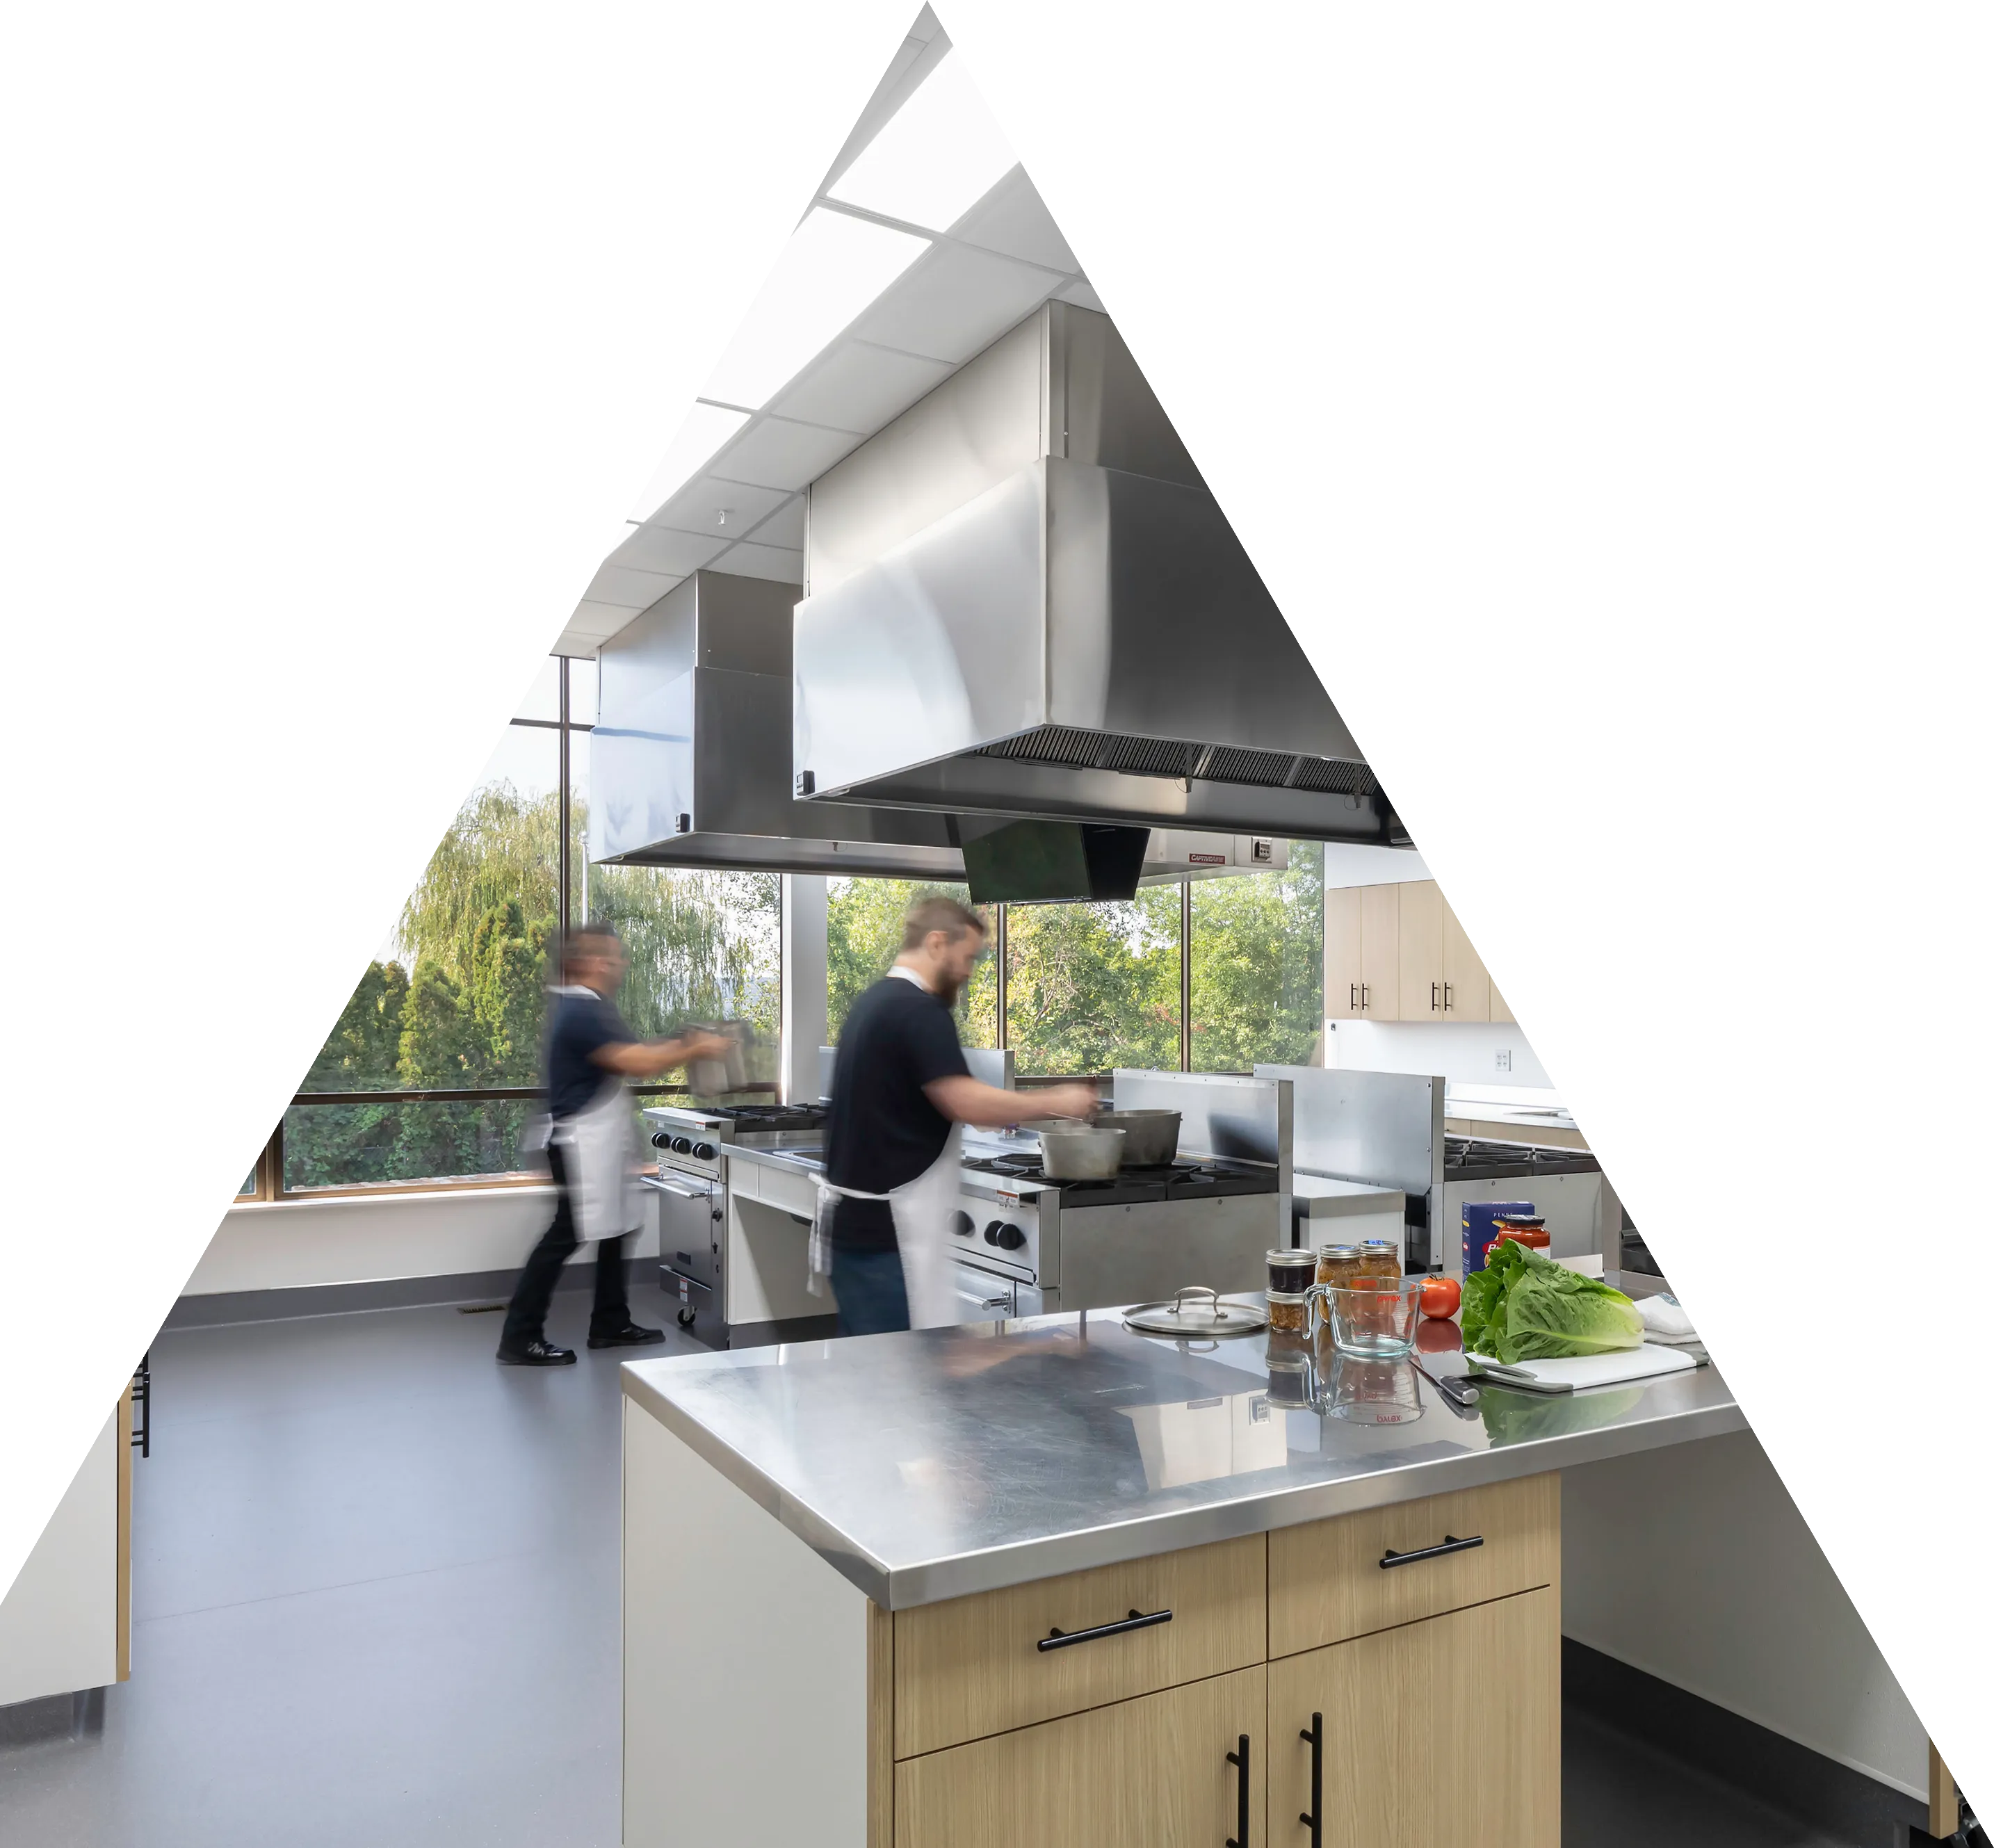
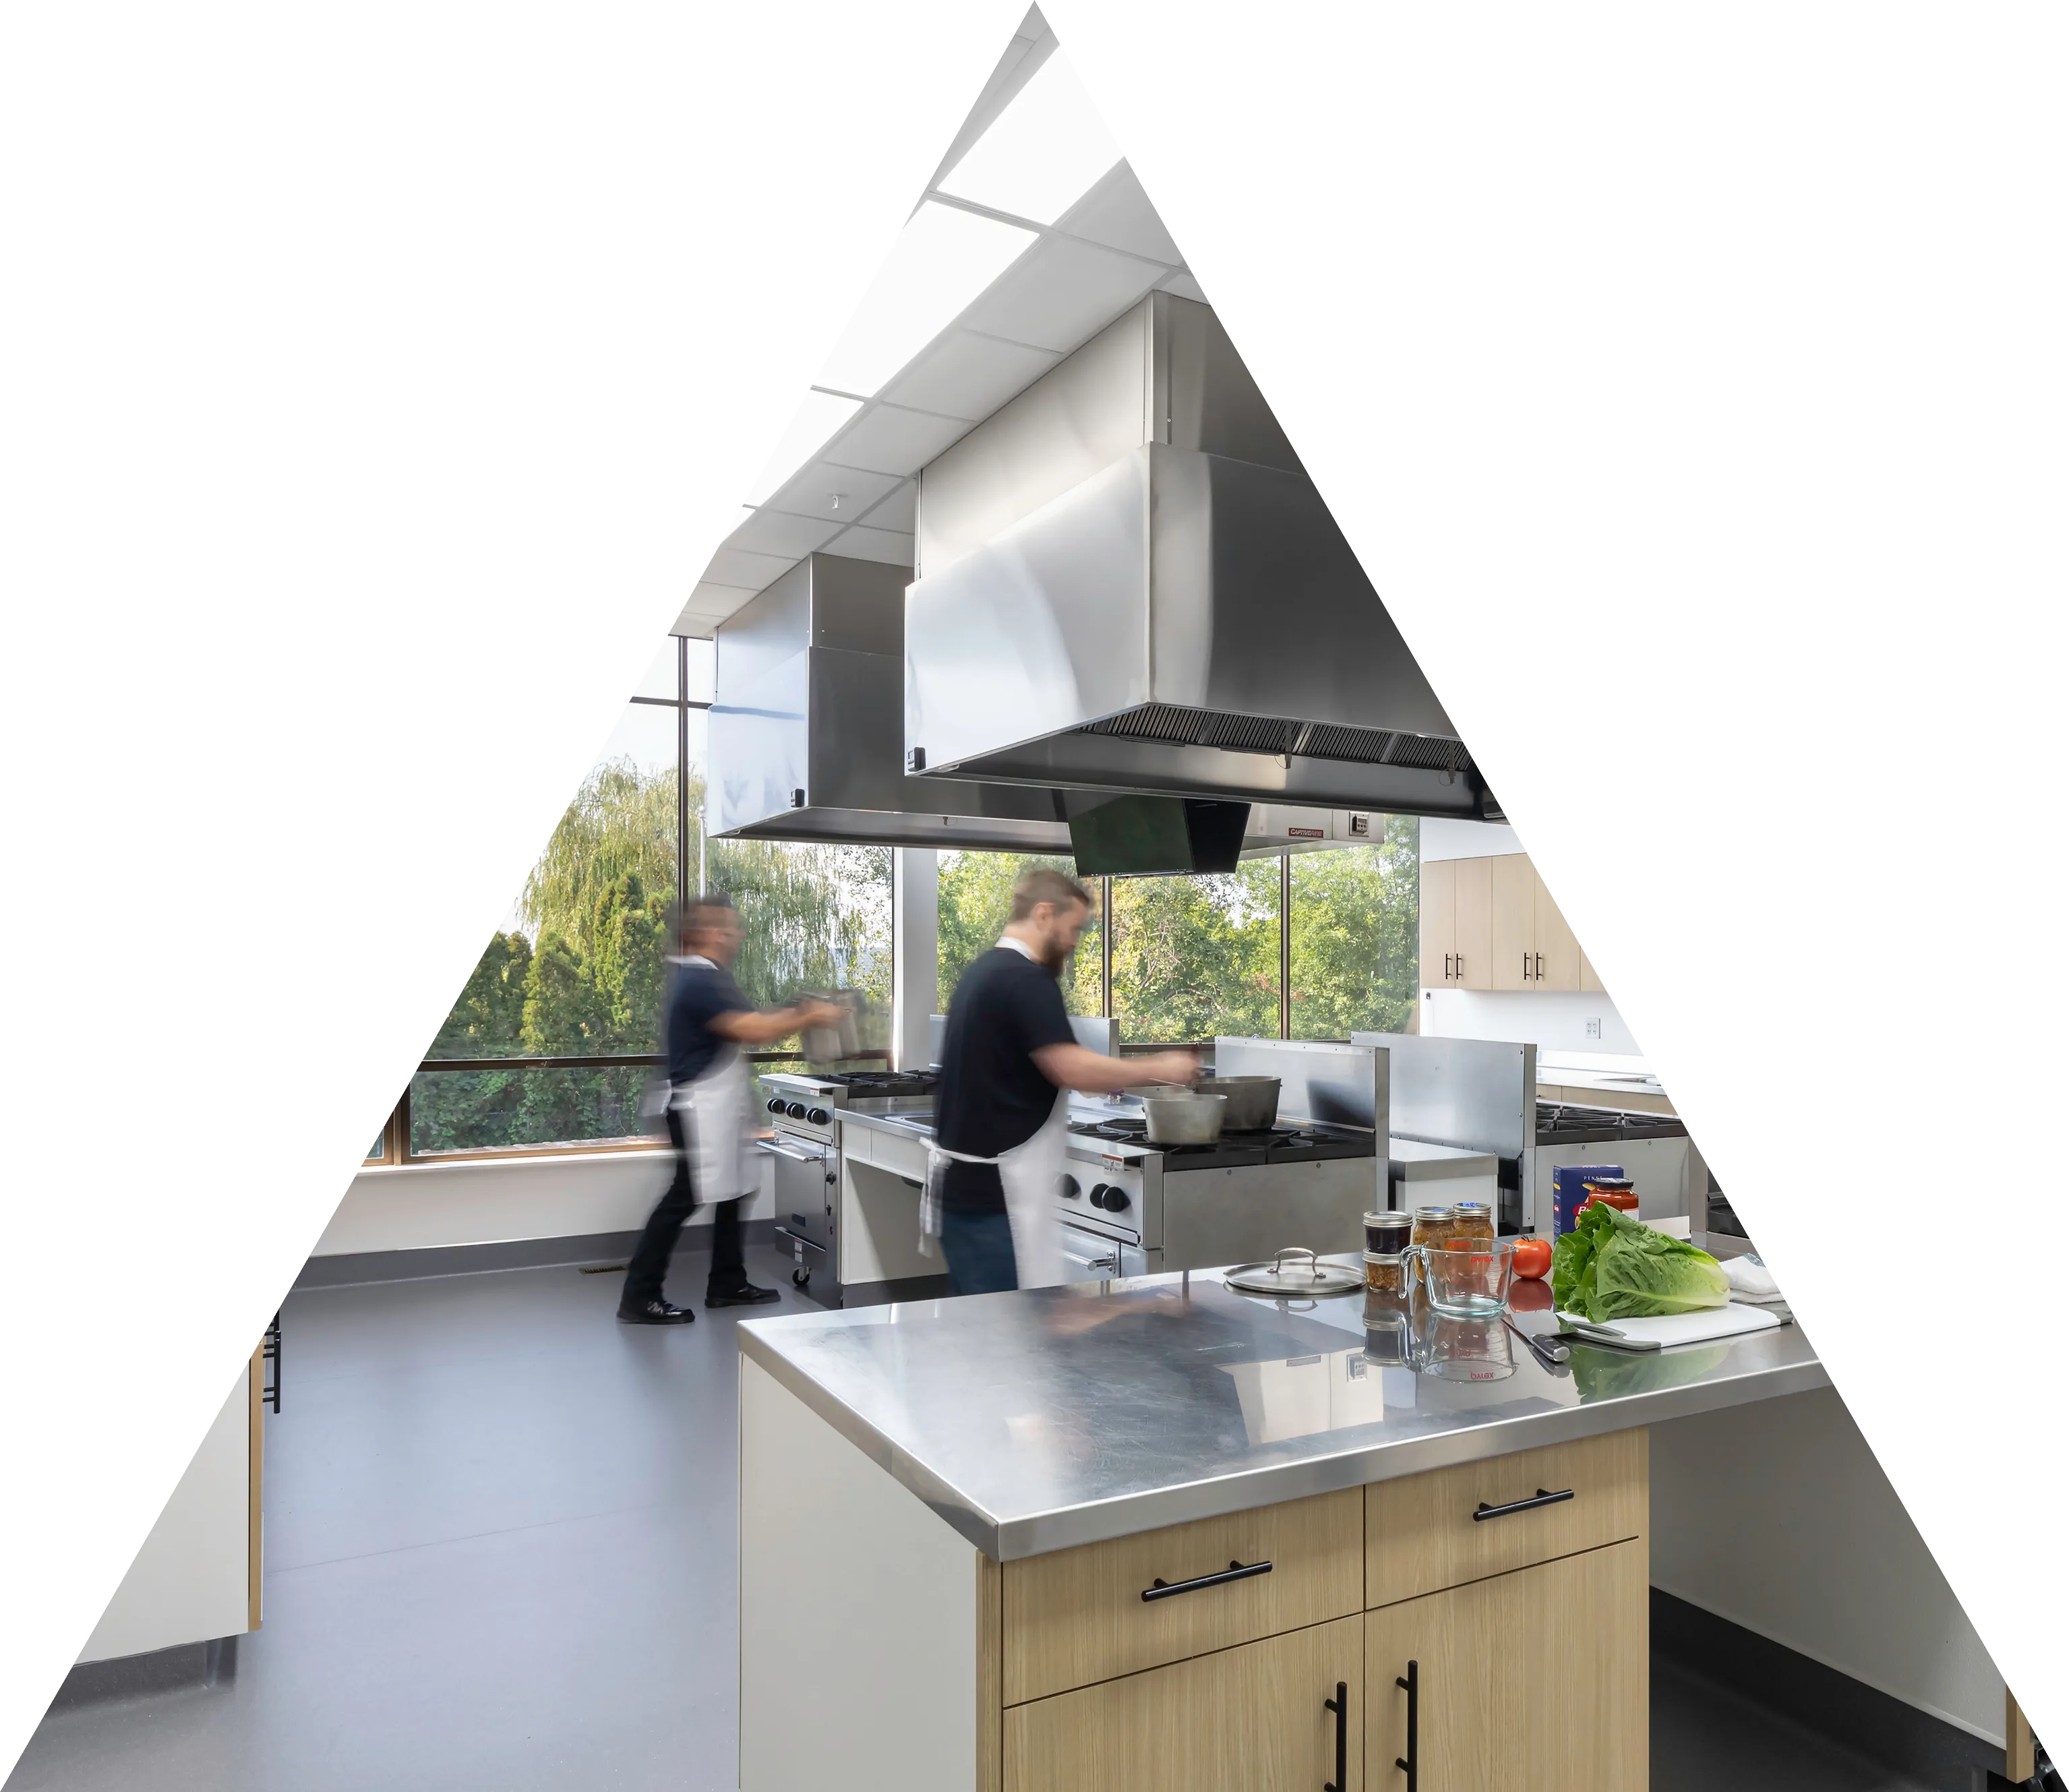
i think i fixed the centering triangles issue on home page

diff --git a/css/style.css b/css/style.css
@@ -1,9 +1,8 @@
 * {
   /* border: red 1px solid;
-  box-sizing: border-box;*/ 
+  box-sizing: border-box;*/
   margin: 0;
   padding: 0;
-  
 }
 
 /* COLORS */
@@ -32,7 +31,7 @@
 
   /* Spacing and Radii */
   --card-radius: 15px;
-    /* x-offset | y-offset | blur | color */
+  /* x-offset | y-offset | blur | color */
   --shadow: 0 10px 20px rgba(42, 42, 81, 0.2);
 }
 
@@ -145,7 +144,7 @@ body {
   padding: 0;
 }
 
-.logo{
+.logo {
   max-width: 200px;
 }
 
@@ -163,12 +162,61 @@ body {
   overflow: hidden;
 }
 
-.triangle {
+/* Container to hold both triangles and create the gap */
+.triangle-container {
   position: absolute;
   top: 50%;
-  transform: translateY(-50%); 
-  width: 90%; 
-  min-height: 90%; 
+  left: 50%;
+  transform: translate(-50%, -50%); /* Perfectly center the unit */
+  display: flex;
+  justify-content: center;
+  align-items: center;
+  /* width: 100%;
+  height: 100%; */
+width: 100vw; 
+  height: 100vh;
+overflow: visible;
+
+  z-index: -1;
+  pointer-events: none;
+}
+
+.triangle {
+
+  position: relative; 
+  top: auto;
+  left: auto;
+  right: auto;
+  transform: none;
+  flex-shrink: 0;
+  /* width: 65%;
+  height: 90%; */
+
+  width: 900px; 
+  height: 900px;
+
+  background-size: contain;
+  background-repeat: no-repeat;
+}
+
+.triangleLeft {
+  background-image: url("../img/BgTri_Left.webp");
+  background-position: right center;
+  scroll-margin-right: -100px;
+}
+
+.triangleRight {
+  background-image: url("../img/BgTri_Right.webp");
+  background-position: left center;
+  margin-left: -100px;
+}
+
+/* .triangle {
+  position: absolute;
+  top: 50%;
+  transform: translateY(-50%);
+  width: 90%;
+  min-height: 90%;
   z-index: -1;
   pointer-events: none;
   background-size: contain;
@@ -185,9 +233,8 @@ body {
 .triangleRight {
   background-image: url("../img/BgTri_Right.webp");
   background-position: right center;
-  /* right: -280px; */
   right: -20%;
-}
+} */
 
 /* BG ORANGE TRIANGLE FOR OTHER PAGES */
 
@@ -237,7 +284,11 @@ body {
 /* SIDEBAR */
 
 #sidebar {
-  background: linear-gradient(to right, var(--color-teal), var(--color-light-teal));
+  background: linear-gradient(
+    to right,
+    var(--color-teal),
+    var(--color-light-teal)
+  );
   border-left: 10px solid var(--color-dark-orange);
   position: fixed;
   top: 0;
@@ -478,7 +529,7 @@ main.content-area {
   text-align: center;
   padding: 50px;
   margin: 50px;
-  box-shadow:  var(--shadow);
+  box-shadow: var(--shadow);
 }
 
 .shortYellowTriRight-card::before {
@@ -514,8 +565,8 @@ main.content-area {
 
 .image-wrapper {
   /* Adjust image size here */
-  flex: 0 0 55%; 
-  max-width: 55%; 
+  flex: 0 0 55%;
+  max-width: 55%;
 }
 
 .yellowFade-cardRight img,
@@ -573,7 +624,7 @@ blockquote {
   padding: 50px 100px;
   margin: 50px 0;
 
-  box-shadow:  var(--shadow);
+  box-shadow: var(--shadow);
 }
 
 .testimonial-card::before {
@@ -809,7 +860,7 @@ cite {
   text-align: center;
   padding: 50px;
   margin: 50px;
-  box-shadow:var(--shadow);
+  box-shadow: var(--shadow);
 }
 
 .yellowCircRight-card::before {
@@ -838,7 +889,7 @@ cite {
 
 /* ----------- MOBILE STYLES ---------------- */
 
-@media (max-width: 1521px) {
+@media (max-width: 1280px) {
   #sidebar {
     display: none;
   }
@@ -893,6 +944,13 @@ cite {
     margin: 20px 5px 0 5px;
   }
 
+  .triangle-container {
+    gap: 200px; /* Smaller gap for mobile */
+  }
+  .triangle {
+    width: 80%; /* Larger relative size for smaller screens */
+  }
+
   .triangleLeft,
   .triangleRight {
     width: 800px;
@@ -902,11 +960,13 @@ cite {
   .triangleLeft {
     top: 95px;
     left: -410px;
+
   }
 
   .triangleRight {
     top: 95px;
     right: -410px;
+
   }
 
   /* ////// MOBILE: PROJECTS PAGE ////// */
@@ -1236,7 +1296,11 @@ cite {
     top: 0;
     left: 0;
     z-index: 1000;
-    background: linear-gradient(to bottom, var(--color-teal), var(--color-light-teal));
+    background: linear-gradient(
+      to bottom,
+      var(--color-teal),
+      var(--color-light-teal)
+    );
   }
 
   .nav-header {
@@ -1263,7 +1327,11 @@ cite {
     margin: 0;
     list-style: none;
 
-    background: linear-gradient(to bottom, var(--color-teal), var(--color-light-teal));
+    background: linear-gradient(
+      to bottom,
+      var(--color-teal),
+      var(--color-light-teal)
+    );
 
     transform: translateY(-100%);
     transition: transform 0.4s ease-in-out;
@@ -1304,7 +1372,7 @@ cite {
   .triangleLeft,
   .triangleRight {
     top: 50%;
-    transform: translateY(-37%);
+    transform: translateY(-50%);
 
     width: 800px;
     height: 800px;
@@ -1330,6 +1398,7 @@ cite {
     width: 100%;
     position: relative;
     overflow: hidden;
+    
   }
 
   /* Overlay styles */
@@ -1417,7 +1486,7 @@ cite {
   }
 }
 /* --- HIDE MOBILE NAV ON DESKTOP --- */
-@media (min-width: 1521px) {
+@media (min-width: 1280px) {
   .mobile-nav {
     display: none;
   }

diff --git a/index.html b/index.html
@@ -84,8 +84,11 @@
   <main class="content-area">
 
     <!-- Background Triangles -->
-    <div class="triangle triangleLeft"></div>
-    <div class="triangle triangleRight"></div>
+     
+    <div class="triangle-container">
+      <div class="triangle triangleLeft"></div>
+      <div class="triangle triangleRight"></div>
+    </div>
 
     <!-- Center Circle -->
     <div class="circle">